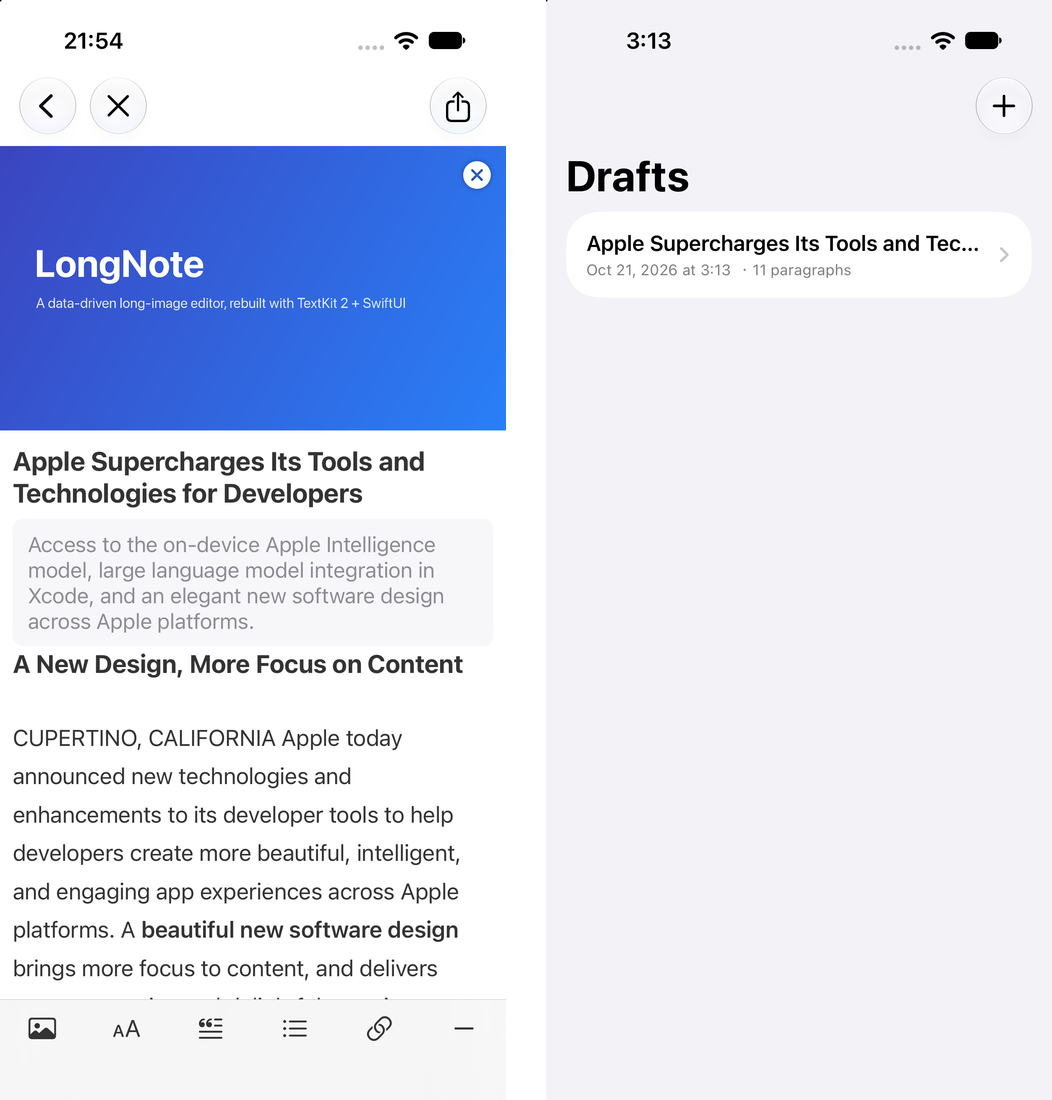
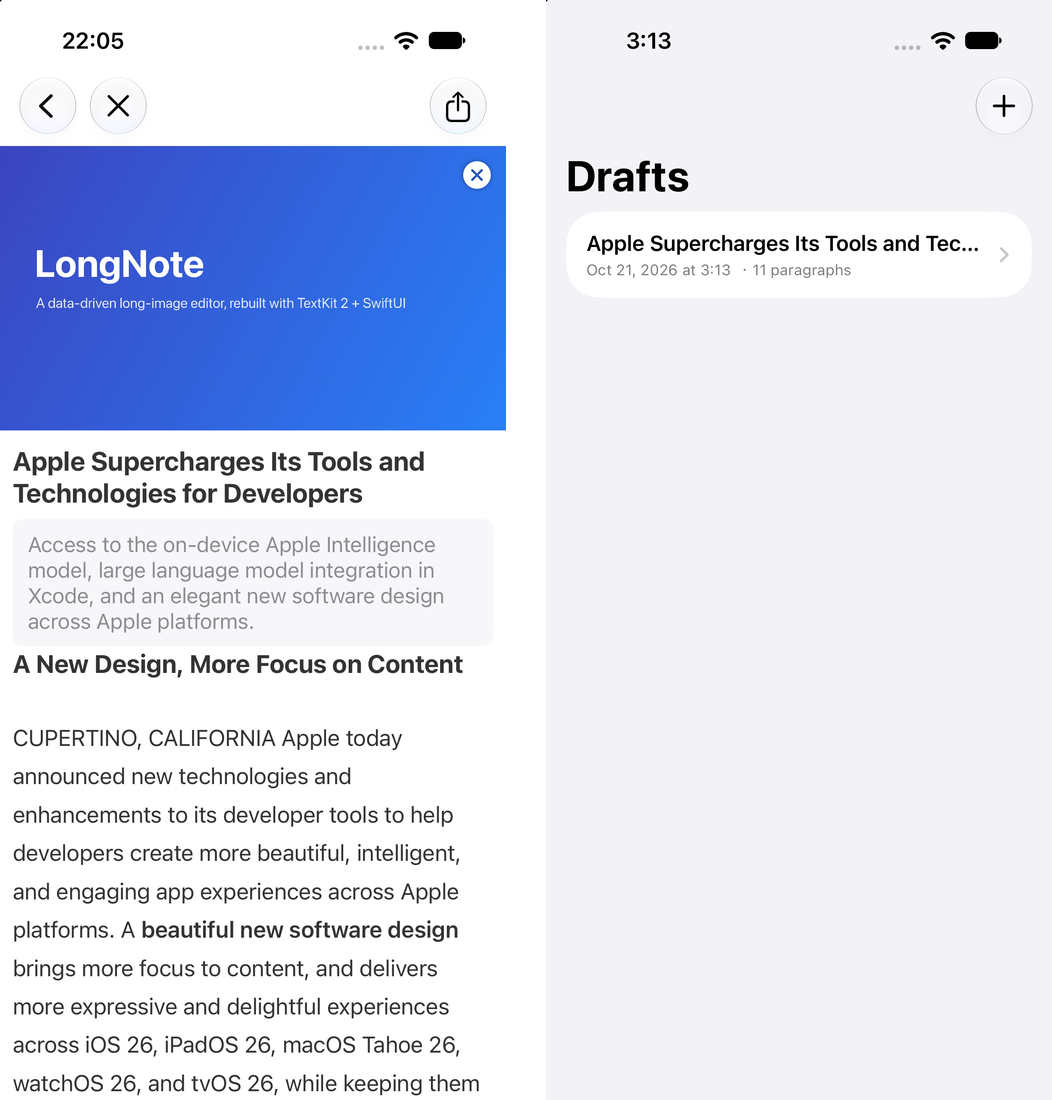
Float the compose bar on the keyboard instead of pinning it to the bottom
The bar was a permanent .safeAreaInset at the bottom of the screen, so it sat
under the keyboard while editing and stayed on screen when the keyboard was
gone.

It now tracks the keyboard (show / will-change-frame / hide notifications) and
is presented as a bottom overlay lifted by the keyboard's height, so it rides
directly on top of the keyboard and disappears with it. The transition uses
the keyboard's own duration, and an undocked / off-screen keyboard frame
counts as hidden.

Changed region(s): [[0.0, 0.8964, 0.4563, 1.0], [0.0608, 0.0309, 0.1217, 0.0618]]

diff --git a/Sources/LongNote/Editor/ArticleEditorView.swift b/Sources/LongNote/Editor/ArticleEditorView.swift
@@ -14,6 +14,10 @@
     private let onClose: (() -> Void)?
     private let exportAction: (() -> Void)?
 
+    /// Height of the on-screen keyboard; 0 when it is hidden. Drives the compose
+    /// bar, which floats directly above the keyboard and disappears with it.
+    @State private var keyboardInset: CGFloat = 0
+
     public init(
       document: ArticleDocument,
       onClose: (() -> Void)? = nil,
@@ -53,11 +57,33 @@
             scrollTo(newID, using: proxy)
           }
         }
-        .safeAreaInset(edge: .bottom, spacing: 0) {
-          toolbar
-        }
       }
       .background(Color(.systemBackground))
+      // The compose bar is not pinned to the bottom of the screen: it rides on
+      // the keyboard (like the original editor) and leaves with it.
+      .overlay(alignment: .bottom) {
+        if keyboardInset > 0 {
+          toolbar
+            .padding(.bottom, keyboardInset)
+            .transition(.move(edge: .bottom).combined(with: .opacity))
+        }
+      }
+      .animation(.easeOut(duration: 0.25), value: keyboardInset)
+      .onReceive(NotificationCenter.default.publisher(for: UIResponder.keyboardWillShowNotification)) { note in
+        withAnimation(.easeOut(duration: Self.keyboardDuration(in: note))) {
+          keyboardInset = Self.keyboardHeight(in: note)
+        }
+      }
+      .onReceive(NotificationCenter.default.publisher(for: UIResponder.keyboardWillHideNotification)) { note in
+        withAnimation(.easeOut(duration: Self.keyboardDuration(in: note))) {
+          keyboardInset = 0
+        }
+      }
+      .onReceive(NotificationCenter.default.publisher(for: UIResponder.keyboardWillChangeFrameNotification)) { note in
+        withAnimation(.easeOut(duration: Self.keyboardDuration(in: note))) {
+          keyboardInset = Self.keyboardHeight(in: note)
+        }
+      }
       .navigationBarTitleDisplayMode(.inline)
       .toolbar {
         if let onClose {
@@ -104,6 +130,21 @@
         }
         EditorToolbar(document: document)
       }
+    }
+
+    /// Height the keyboard occupies at the bottom of the screen, taken from a
+    /// keyboard notification's end frame (screen coordinates).
+    private static func keyboardHeight(in note: Notification) -> CGFloat {
+      guard let frame = note.userInfo?[UIResponder.keyboardFrameEndUserInfoKey] as? CGRect,
+        frame.height > 1
+      else {
+        return 0
+      }
+      return max(UIScreen.main.bounds.height - frame.minY, 0)
+    }
+
+    private static func keyboardDuration(in note: Notification) -> Double {
+      (note.userInfo?[UIResponder.keyboardAnimationDurationUserInfoKey] as? Double) ?? 0.25
     }
 
     private func scrollTo(_ id: Paragraph.ID, using proxy: ScrollViewProxy) {

diff --git a/Examples/LongNoteDemo/README.md b/Examples/LongNoteDemo/README.md
@@ -42,8 +42,9 @@ Select the `LongNoteDemo` scheme and run on an iOS 18 simulator or device.
   and use *Load Sample Article* to bring it back.
 - Type a title, add a cover, write a summary.
 - Press Return to split paragraphs, Backspace at a line start to merge them back.
-- Use the bottom toolbar to switch a paragraph to H1/H2/quote/list, insert a
-  divider or an image (with a caption), and add a link.
+- The compose bar floats on the keyboard: tap into a paragraph to bring it up
+  (switch to H1/H2/quote/list, insert a divider or an image with a caption, add
+  a link), and dismiss the keyboard to hide it again.
 - Select text and use the floating toolbar for bold / strikethrough / color /
   link.
 - Tap the share icon, then **Save to Photos** or **Share**.
